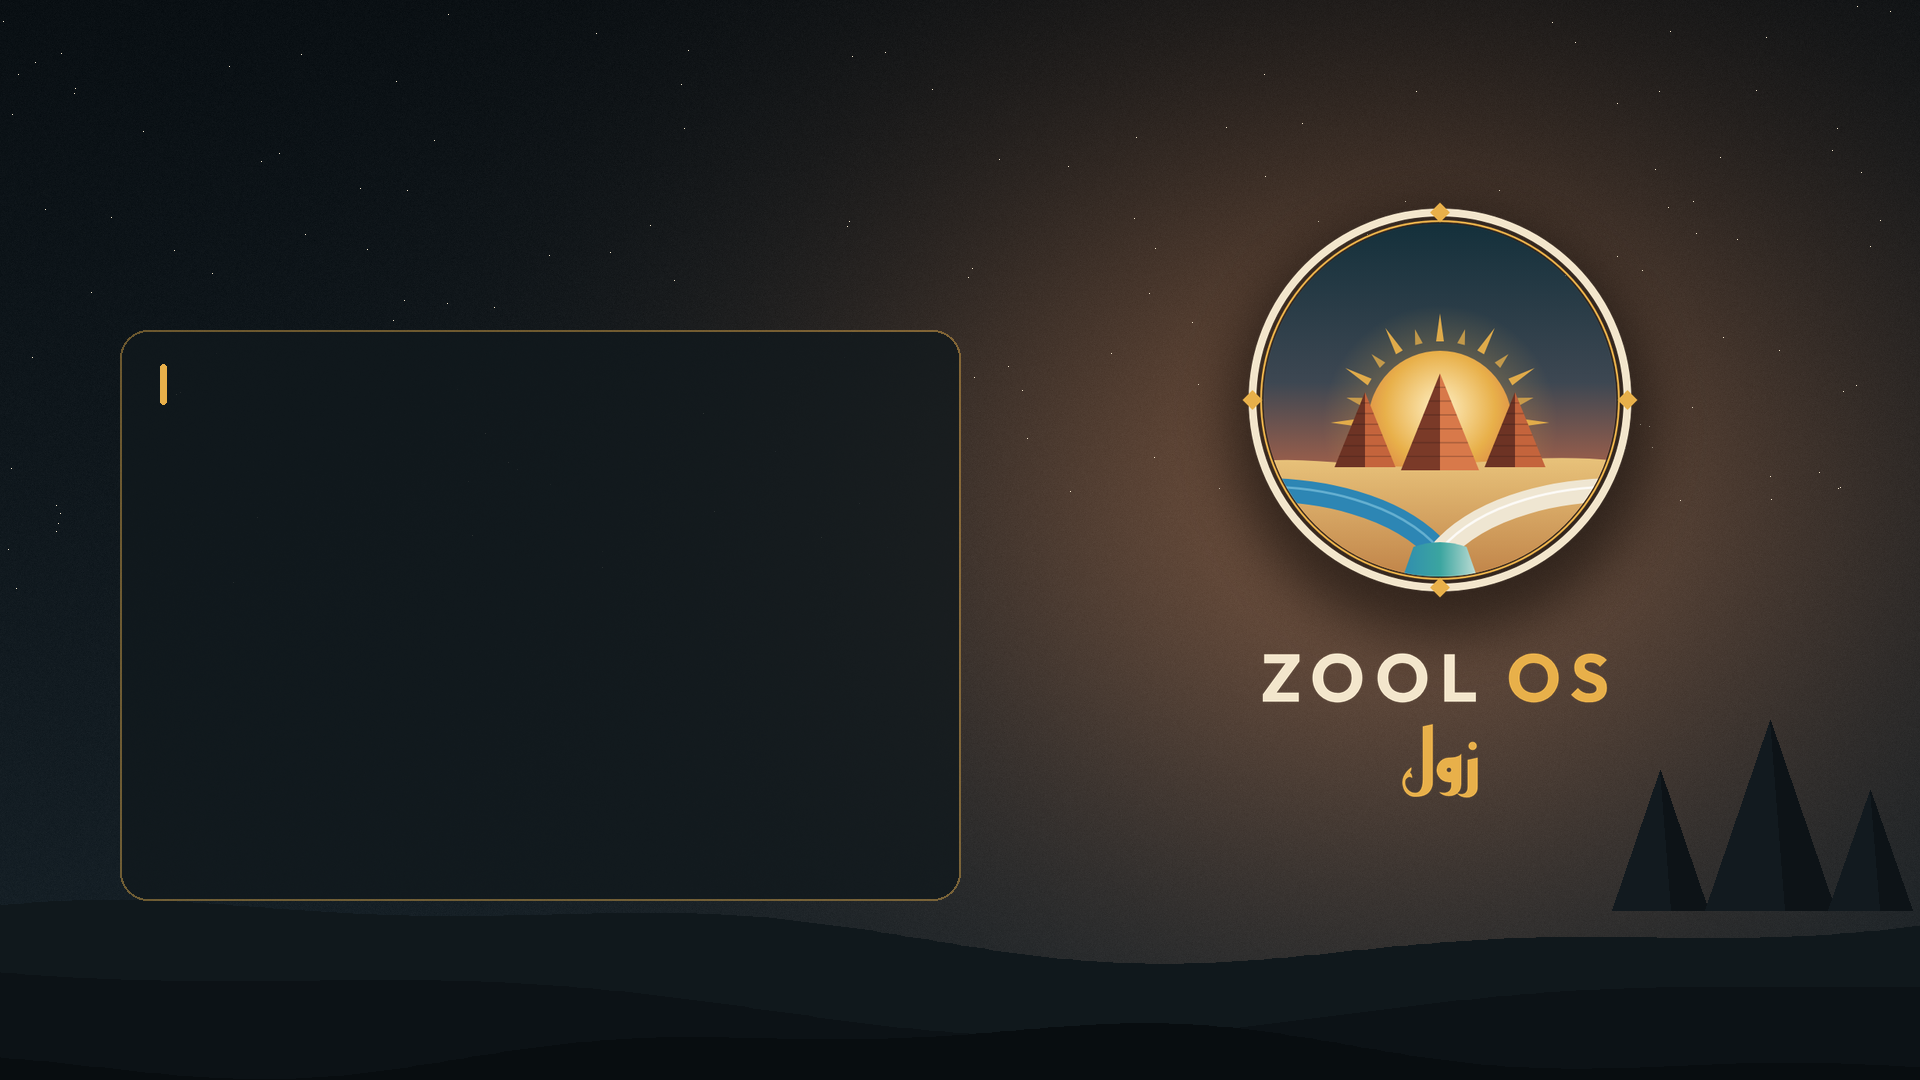
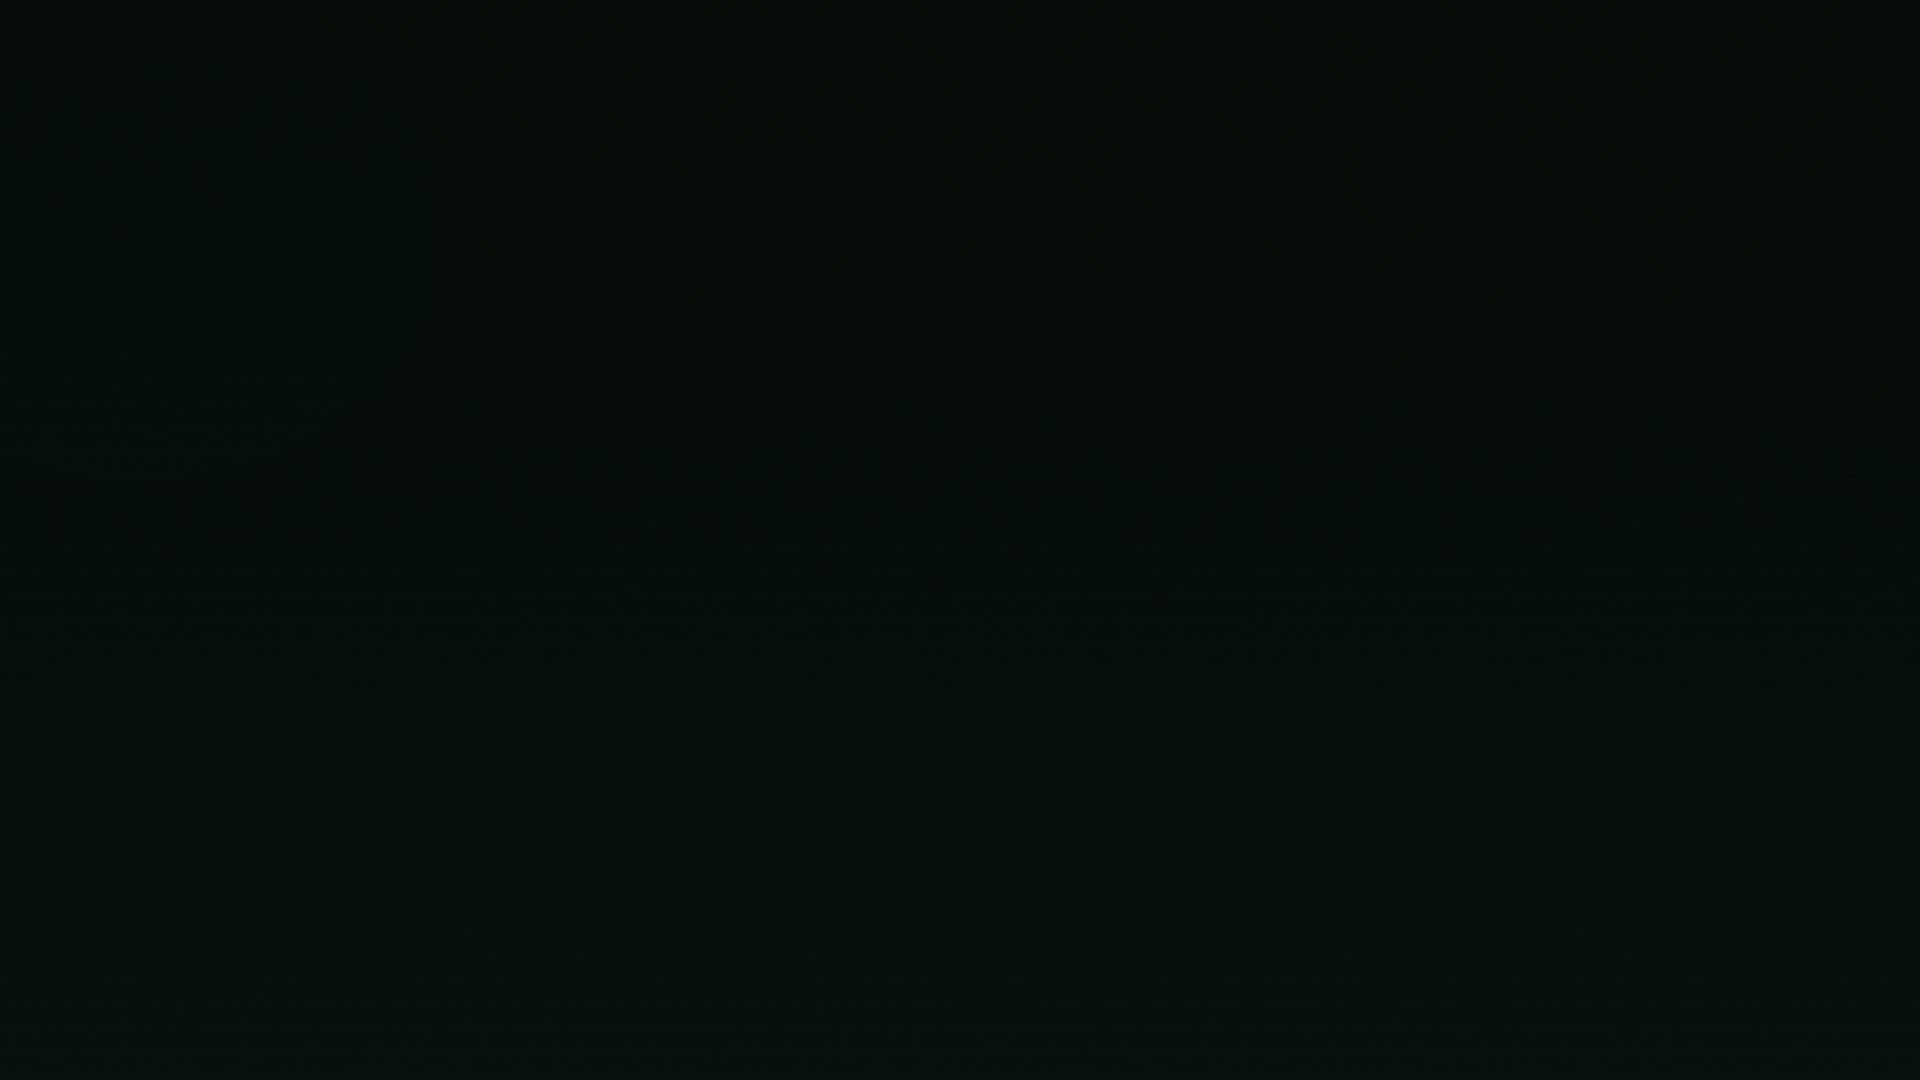
feat(grub): إعادة تصميم ثيم GRUB بأسلوب Terminal
- خلفية جديدة: أسود داكن (#060d09) مع scanlines خفية وتوهّج phosphor أخضر
  بدلاً من السماء الليلية مع الأهرامات والشعار
- theme.txt: تخطيط CLI كامل (prompt ذهبي، قائمة كـ terminal list، شريط timeout رفيع)
  · شعار "◉  Z O O L   O S" بخط Reem Kufi Bold 32
  · عناصر القائمة بـ Amiri (20px)، تلميحات بـ Amiri (14px)
- شريط الاختيار: خط ذهبي رفيع 3px على اليسار + fade بدلاً من المستطيل الكامل
- make-grub-theme.sh: إضافة توليد ReemKufi-Bold pf2 بحجم 32

Claude-Session: https://claude.ai/code/session_011UnGMHLZ9DRcpG2ajSpaPP

diff --git a/branding/make_grub_assets.py b/branding/make_grub_assets.py
@@ -1,89 +1,75 @@
 #!/usr/bin/env python3
-"""يولّد ثيم GRUB الخاص بزول (خلفية + شريط التحديد) في iso/grub/zool-theme/.
+"""يولّد أصول GRUB لثيم Terminal الخاص بزول.
 الاستعمال:  python3 branding/make_grub_assets.py   (يحتاج Pillow و numpy)
-الخطوط (pf2) تُولَّد وقت البناء بـ grub-mkfont — انظر tools/make-grub-theme.sh
+
+التصميم الجديد: خلفية شبه سوداء مع scanlines خفية — لا صور ولا زخارف.
+شريط الاختيار: خط ذهبي رفيع على اليسار (بدل المستطيل الكامل).
 """
 import os
 import numpy as np
-from PIL import Image, ImageDraw, ImageFilter
+from PIL import Image, ImageDraw
 
 HERE = os.path.dirname(os.path.abspath(__file__))
 ROOT = os.path.dirname(HERE)
-OUT = os.path.join(ROOT, "iso/grub/zool-theme")
-LOGO = os.path.join(ROOT, "share/zool/logo")
+OUT  = os.path.join(ROOT, "iso/grub/zool-theme")
 os.makedirs(OUT, exist_ok=True)
 
 W, H = 1920, 1080
-NIGHT, SURFACE = (10, 16, 20), (23, 34, 41)
-GOLD, TERRA, SAND = (232, 176, 74), (212, 106, 67), (243, 230, 204)
 
-# ── سماء ليلية متدرجة مع وهج شمس خلف الشعار ──
-yy, xx = np.mgrid[0:H, 0:W].astype(float)
-t = (yy / H)[..., None]
-sky = np.array(NIGHT) * (1 - t) + np.array(SURFACE) * t
-cx, cy = W * 0.72, H * 0.46
-glow = np.exp(-(((xx - cx) / 520) ** 2 + ((yy - cy) / 420) ** 2))[..., None]
-sky = sky + glow * (np.array(TERRA) * 0.30 + np.array(GOLD) * 0.12)
-rng = np.random.default_rng(3)
-sky += rng.normal(0, 1.6, (H, W, 1))                       # ضجيج خفيف يمنع تدرّج الألوان المتقطع
-img = Image.fromarray(np.clip(sky, 0, 255).astype(np.uint8), "RGB").convert("RGBA")
+# ── لوحة الألوان ──────────────────────────────────────────────────────────────
+BG_DARK  = (6,  13,  9)   # #060d09  شبه أسود مع خضرة خافتة
+BG_MID   = (8,  18, 12)   # طبقة وسطى
+GOLD     = (232, 176, 74)  # #e8b04a
 
-# ── نجوم خافتة ──
-d = ImageDraw.Draw(img)
-for _ in range(160):
-    x, y = int(rng.uniform(0, W)), int(rng.uniform(0, H * 0.55))
-    a = int(rng.uniform(40, 150))
-    d.point((x, y), fill=(243, 230, 204, a))
+# ── الخلفية ───────────────────────────────────────────────────────────────────
+# تدرّج عمودي خفيف من الأعلى (أدكن) إلى الأسفل (أضوأ قليلاً)
+rng = np.random.default_rng(7)
+yy  = np.arange(H, dtype=float)[:, None, None] / H                 # (H,1,1)
+row = np.array(BG_DARK) * (1 - yy) + np.array(BG_MID) * yy       # (H,1,3)
+bg  = np.broadcast_to(row, (H, W, 3)).copy().astype(float)
 
-# ── كثبان وأهرامات في الأسفل ──
-land = Image.new("RGBA", (W, H), (0, 0, 0, 0))
-ld = ImageDraw.Draw(land)
-def dune(base, amp, freq, phase, color):
-    pts = [(0, H)] + [(x, base - amp * np.sin(x / freq + phase) - amp * 0.4 * np.sin(x / (freq * 0.37) + phase * 2))
-                      for x in range(0, W + 8, 8)] + [(W, H)]
-    ld.polygon(pts, fill=color)
-for px, ph, pw in ((1660, 120, 96), (1770, 170, 130), (1870, 100, 84)):   # أهرامات مروي الحادة
-    top = H - 190 - ph
-    ld.polygon([(px - pw / 2, H - 170), (px, top), (px + pw / 2, H - 170)], fill=(18, 26, 31, 255))
-    ld.polygon([(px, top), (px + pw / 2, H - 170), (px + pw * 0.12, H - 170)], fill=(13, 19, 23, 255))
-dune(H - 150, 26, 310, 0.6, (16, 24, 28, 255))
-dune(H - 90, 34, 420, 2.1, (12, 18, 22, 255))
-dune(H - 30, 22, 260, 4.0, (8, 13, 16, 255))
-img.alpha_composite(land)
+# ضجيج دقيق يمنع تقطّع تدرّج الألوان
+bg += rng.normal(0, 0.9, (H, W, 3))
 
-# ── بطاقة القائمة (يسار) ──
-card = Image.new("RGBA", (W, H), (0, 0, 0, 0))
-cd = ImageDraw.Draw(card)
-CX0, CY0, CX1, CY1 = 120, 330, 960, 900
-cd.rounded_rectangle((CX0, CY0, CX1, CY1), 28, fill=(16, 24, 28, 205), outline=(232, 176, 74, 110), width=2)
-cd.rounded_rectangle((CX0 + 40, CY0 + 34, CX0 + 46, CY0 + 74), 3, fill=GOLD + (255,))     # شرطة ذهبية بجانب العنوان
-img.alpha_composite(card)
+# scanlines أفقية خفية — تُعطي إحساس شاشة CRT دون مبالغة
+for y in range(0, H, 3):
+    bg[y] *= 0.88
 
-# ── الشعار والاسم (يمين) ──
-logo = Image.open(f"{LOGO}/zool-logo-512.png").convert("RGBA").resize((400, 400), Image.LANCZOS)
-shadow = Image.new("RGBA", (W, H), (0, 0, 0, 0))
-ImageDraw.Draw(shadow).ellipse((1230, 215, 1650, 635), fill=(0, 0, 0, 130))
-img.alpha_composite(shadow.filter(ImageFilter.GaussianBlur(26)))
-img.alpha_composite(logo, (1240, 200))
-wm = Image.open(f"{LOGO}/zool-wordmark.png").convert("RGBA")
-wm = wm.resize((460, round(460 * wm.height / wm.width)), Image.LANCZOS)
-img.alpha_composite(wm, (1440 - wm.width // 2, 630))
-img.convert("RGB").save(f"{OUT}/background.png", optimize=True)
+img = Image.fromarray(np.clip(bg, 0, 255).astype(np.uint8), "RGB")
 
-# ── شريط العنصر المحدد: 9 شرائح (نستعمل الوسط والطرفين فقط) ──
-IH, R = 46, 14
-def piece(w, box):
-    im = Image.new("RGBA", (w, IH), (0, 0, 0, 0))
-    full = Image.new("RGBA", (200, IH), (0, 0, 0, 0))
-    fd = ImageDraw.Draw(full)
-    fd.rectangle((0, 0, 200, IH), fill=GOLD + (255,))
-    mask = Image.new("L", (200, IH), 0)
-    ImageDraw.Draw(mask).rounded_rectangle((0, 0, 199, IH - 1), R, fill=255)
-    full.putalpha(mask)
-    return full.crop(box)
-piece(R, (0, 0, R, IH)).save(f"{OUT}/select_w.png")
-piece(R, (200 - R, 0, 200, IH)).save(f"{OUT}/select_e.png")
-c = Image.new("RGBA", (8, IH), (0, 0, 0, 0))
-src = piece(200, (0, 0, 200, IH)).crop((96, 0, 104, IH))
-src.save(f"{OUT}/select_c.png")
-print("OK", OUT, "| card:", (CX0, CY0, CX1, CY1))
+# نقطتا ضوء خضراوي فاتح (مثل phosphor glow) في الركن العلوي الأيسر والسفل الأيمن
+gw = np.zeros((H, W), dtype=float)
+cx1, cy1 = int(W * 0.07), int(H * 0.22)
+cx2, cy2 = int(W * 0.80), int(H * 0.78)
+xx, yy2  = np.meshgrid(np.arange(W), np.arange(H))
+gw += 0.08 * np.exp(-(((xx - cx1) / 500) ** 2 + ((yy2 - cy1) / 400) ** 2))
+gw += 0.05 * np.exp(-(((xx - cx2) / 600) ** 2 + ((yy2 - cy2) / 500) ** 2))
+arr = np.array(img).astype(float)
+arr[..., 1] = np.clip(arr[..., 1] + gw * 18, 0, 255)   # قناة Green فقط
+img = Image.fromarray(arr.astype(np.uint8))
+
+img.save(f"{OUT}/background.png", optimize=True)
+print(f"✓ background.png → {OUT}/background.png")
+
+# ── شريط الاختيار: select_*.png ───────────────────────────────────────────────
+# تصميم: خط ذهبي رفيع على اليسار + طبقة شفافة خفيفة على الكل
+# GRUB يستعمل 9-slice: select_w.png | select_c.png | select_e.png
+IH = 46   # ارتفاع العنصر في القائمة
+
+# الشريح الأيسر (W): خط ذهبي 3px + fade ذهبي
+sw = Image.new("RGBA", (14, IH), (0, 0, 0, 0))
+dw = ImageDraw.Draw(sw)
+dw.rectangle((0, 0, 2, IH - 1), fill=GOLD + (220,))                 # خط 3px
+dw.rectangle((3, 0, 13, IH - 1), fill=GOLD + (22,))                  # وهج خفيف
+sw.save(f"{OUT}/select_w.png")
+
+# الشريح الوسط (C): طبقة ذهبية شفافة جداً
+sc = Image.new("RGBA", (8, IH), GOLD + (12,))
+sc.save(f"{OUT}/select_c.png")
+
+# الشريح الأيمن (E): شفاف
+se = Image.new("RGBA", (4, IH), (0, 0, 0, 0))
+se.save(f"{OUT}/select_e.png")
+
+print(f"✓ select_{{w,c,e}}.png → {OUT}/")
+print("OK — ثيم Terminal جاهز")
